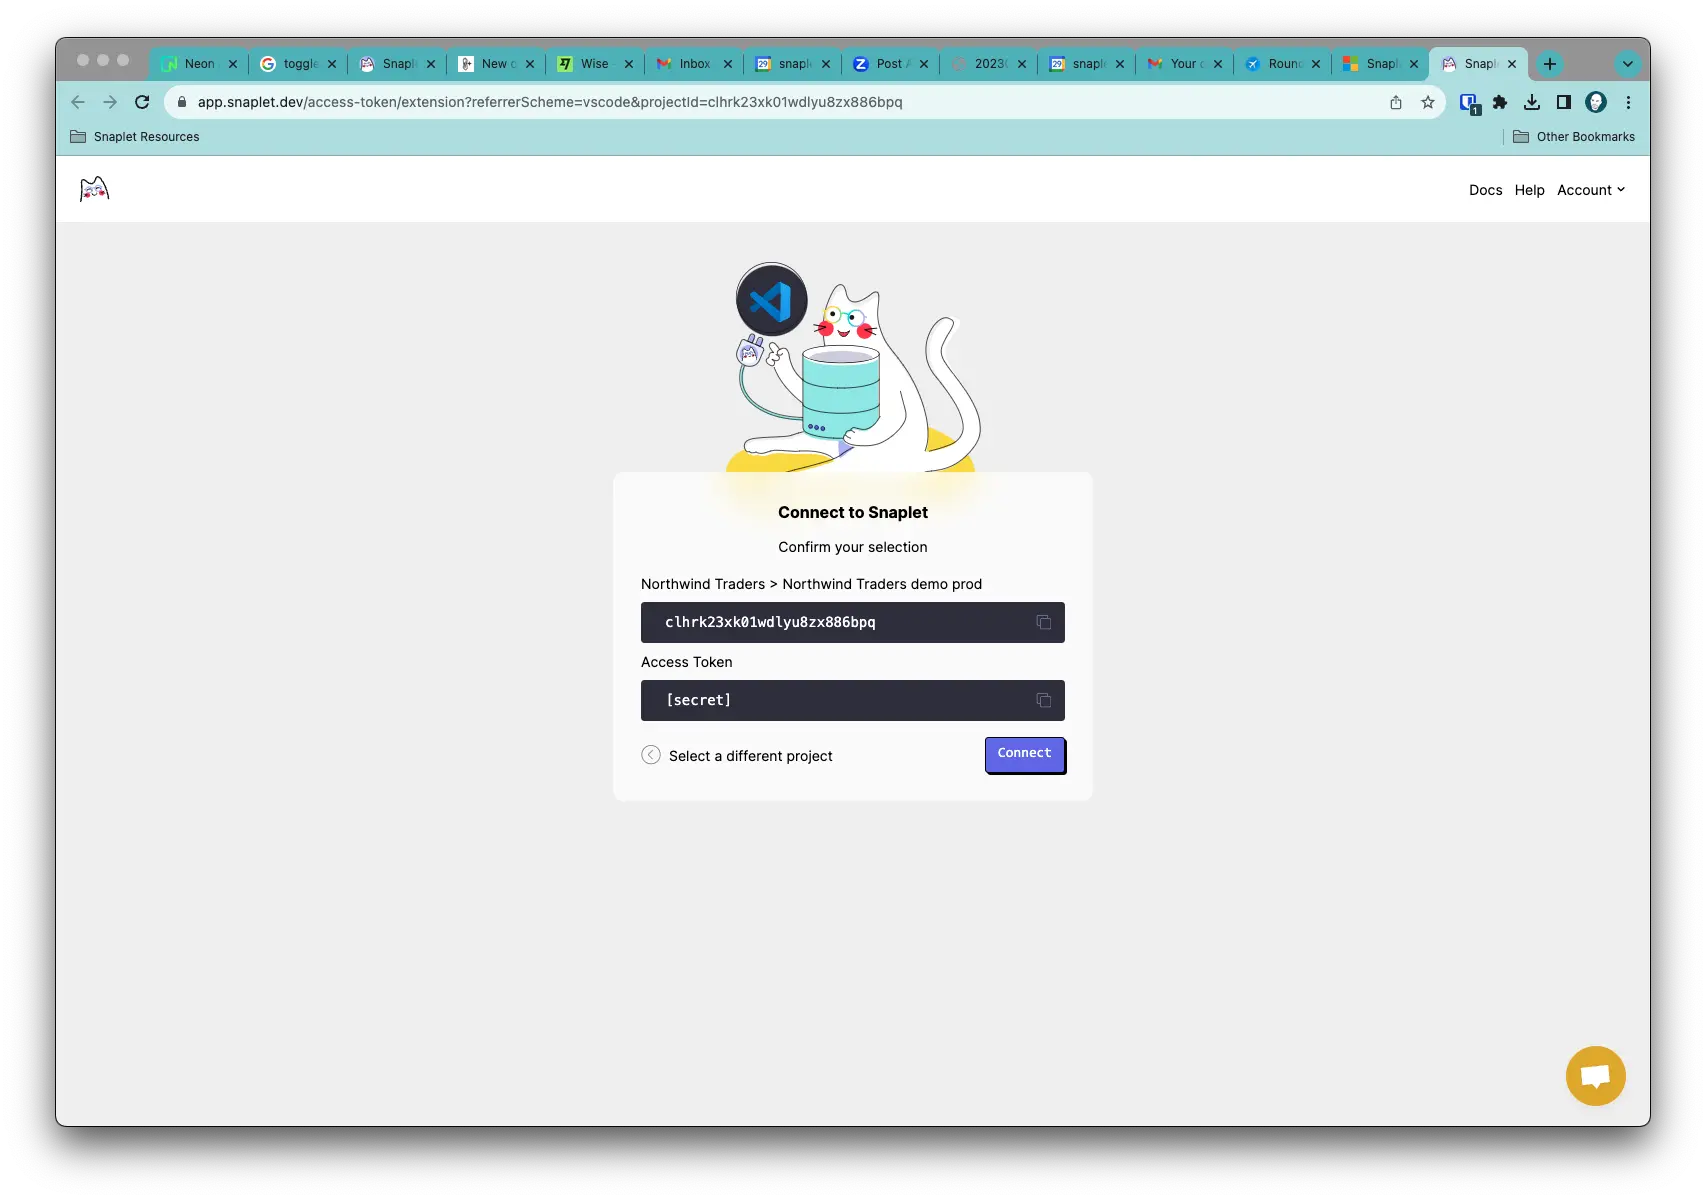
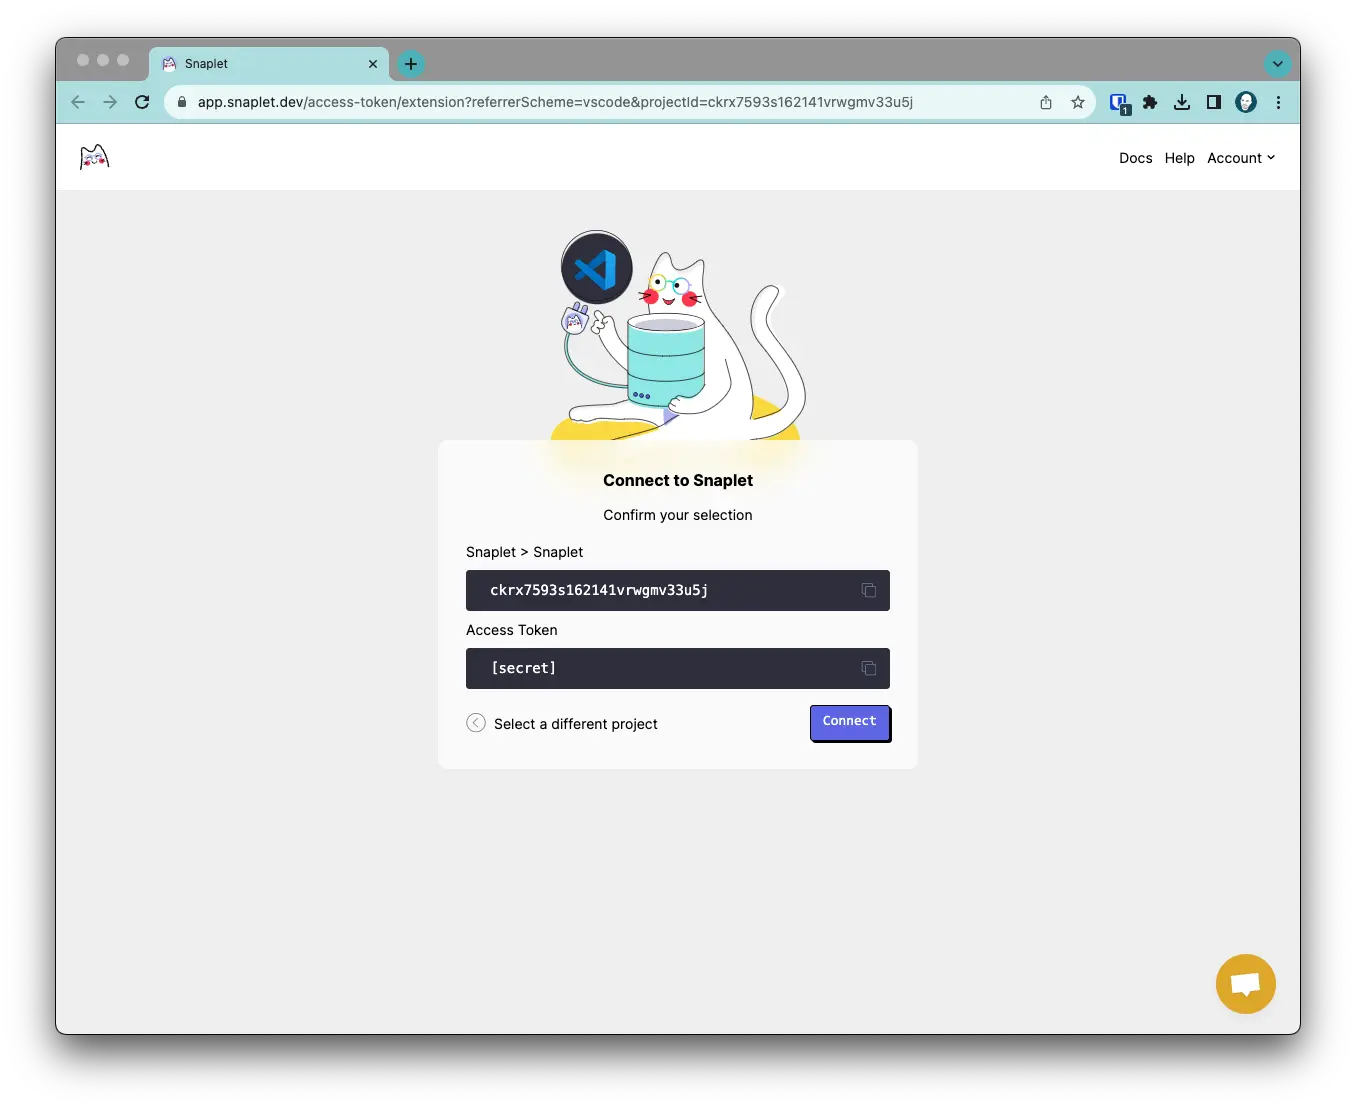
Updates to tagging and new image

Changed region(s): [[0.0, 0.0307, 0.9912, 0.9819], [0.3407, 0.1841, 0.6814, 0.6751]]

diff --git a/docs/05-guides/visual-studio-code-extension.md b/docs/05-guides/visual-studio-code-extension.md
@@ -1,23 +1,23 @@
-# How to Install and Configure the Snaplet Visual Studio Code Extension
+# How to Install and Configure the Snaplet VS Code Extension
 
-## **What is the Snaplet Visual Studio Code Extension (VSCE)?**
+## **What is the Snaplet VS Code Extension (VSCE)?**
 
 Snaplet makes software development more efficient and accurate by providing a seamless way to work with production-like data in a safe and compliant manner. 
 
-The Snaplet VSCE takes this a step further by integrating Snaplet's features directly into your Visual Studio Code environment. 
+The Snaplet VSCE takes this a step further by integrating Snaplet's features directly into your VS Code environment. 
 
 This automates the process of branching your database when you branch your code, ensuring you always have a local development database seeded with fresh, production-realistic data. 
 
 ## **Prerequisites**
 
-- [Visual Studio Code](https://code.visualstudio.com/) installed.
+- [VS Code](https://code.visualstudio.com/) installed.
 - [An active Snaplet account](https://app.snaplet.dev/) (this can be a free account).
 
 ## **Step-by-Step Installation and Configuration**
 
-### **Step 1: Open Visual Studio Code**
+### **Step 1: Open VS Code**
 
-Launch Visual Studio Code on your computer.
+1. Launch VS Code on your computer.
 
 ### **Step 2: Access the Extension Marketplace**
 
@@ -30,7 +30,7 @@ Launch Visual Studio Code on your computer.
 
 ### **Step 3: Install the Snaplet Extension**
 
-1. Locate the Snaplet Extension in the search results.
+1. Locate the Snaplet extension in the search results.
 2. Click the **`Install`** button next to the extension name.
 
     ![Install Snaplet from the Extension Marketplace. Good things about to happen.](/img/vsce-02.webp)
@@ -42,24 +42,32 @@ Launch Visual Studio Code on your computer.
     
     ![Installed! Now to connect your extension to your Snaplet account.](/img/vsce-03.webp)
     
-3. Allow Visual Studio Code to navigate to the Snaplet web app.
-4. Select the appropriate project you want to use in the Visual Studio Code Extension, and click `Connect`. If prompted, allow [app.snaplet.dev](http://app.snaplet.dev) to open Visual Studio Code.
+3. Allow VS Code to navigate to the Snaplet web app.
+4. Select the appropriate project you want to use in the VS Code extension, and click `Connect`. If prompted, allow [app.snaplet.dev](http://app.snaplet.dev) to open VS Code.
     
     ![Pick the right project from inside Snaplet.](/img/vsce-04.webp)
     
-5. Allow the Snaplet Visual Studio Code Extension to open the URI.
+5. Allow the Snaplet VS Code extension to open the URI.
     
     ![Let the Snaplet extension read your project info.](/img/vsce-05.webp)
     
-6. Your Snaplet Visual Studio Code Extension is now associated with your Snaplet account, and installed. You just need to update your local development database environment to point to the Snaplet proxy.
+6. Your Snaplet VS Code extension is now associated with your Snaplet account, and installed. You just need to update your local development database environment to point to the Snaplet proxy.
 
     ![All done!](/img/vsce-02.webp)
 
-### **Step 5: Configure Your Development Environment**
+### **Step 5: Tag Your Snapshots With `main`**
+1. The Snaplet extension looks for snapshots tagged with `main`, so ensure that your latest snapshot is tagged with `main`. You can tag your snapshots from within Snaplet Cloud by selecting a snapshot from the Snapshot list. 
 
-1. Tag your snapshots with `main` from within Snaplet Cloud. *NB: Snapshots must have the `main` tag in order to have a preview database automatically created for the extension.*  
-2. Go to your active project workspace.
-3. Change your local development database environment variable to point to **`postgresql://snaplet@localhost:2345/snaplet`**.
+    ![Add a main tag!](/img/vsce-07.webp)
+
+2. You can optionally set all Snaplet scheduled snapshots to be automatically tagged with `main` from within the Project Settings view. This ensures your regularly scheduled snapshots are automatically used by the Snaplet VS Code extension. 
+
+![Set scheduled tagging](/img/vsce-08.webp)
+
+### **Step 6: Configure Your Development Environment**
+
+1. Go to your active project workspace.
+2. Change your local development database environment variable to point to **`postgresql://snaplet@localhost:2345/snaplet`**.
 
 You're all done. Your Snaplet VSCE is now configured, and your local database will automatically branch when you switch branches in your code.
 
